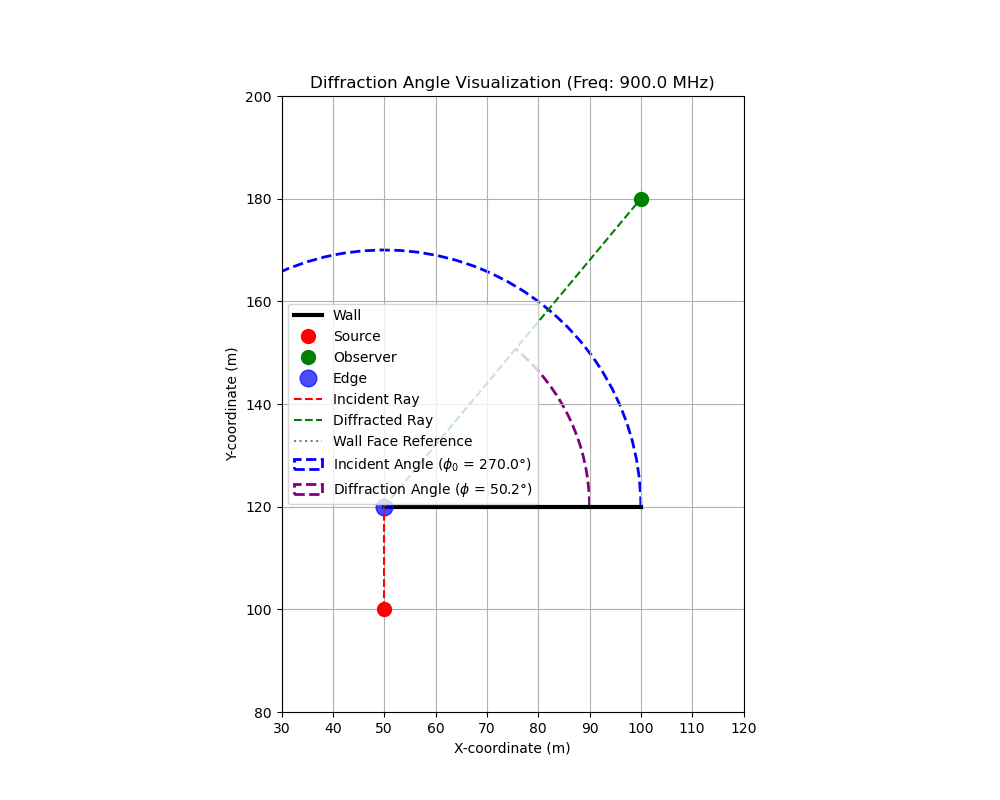
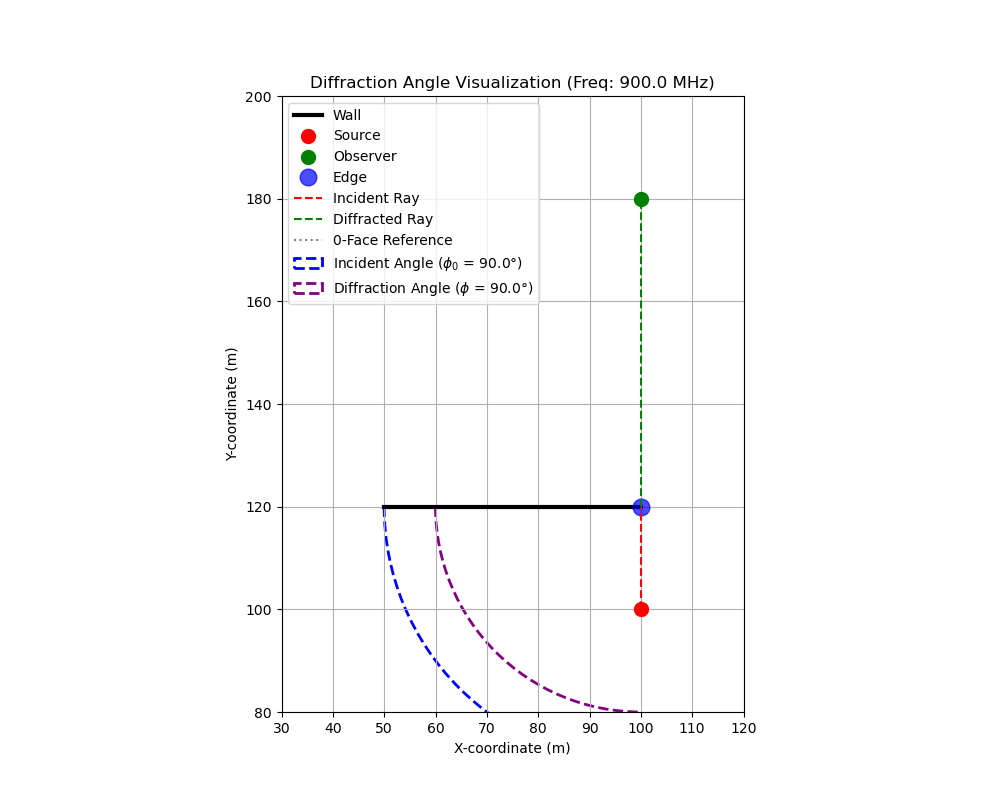
0-face detection still has some bugs, but added ready formula for diffraction coefficient in case of n=2

diff --git a/utd_physics.py b/utd_physics.py
@@ -1,74 +1,81 @@
 import numpy as np
 from scipy.constants import c as SPEED_OF_LIGHT
 
+# -------------------------------------------------------------
+# Helper utilities
+# -------------------------------------------------------------
+TWOPI = 2 * np.pi
+
+
+def _norm(a):
+    """Normalize angle to [0, 2π)."""
+    return a % TWOPI
+
+
+def _angle_between(a, b):
+    """Smallest absolute angle between two directions in [0, π]."""
+    return abs((_norm(a - b + np.pi)) - np.pi)
+
+
+# -------------------------------------------------------------
+# Main routine
+# -------------------------------------------------------------
+
 def calculate_utd_coefficient(source, edge, observer, wall_points, frequency):
+    """Return (D_GTD_complex, phi0_vis, phi_vis, face_ref_angle).
+
+    * phi0_vis  – smallest angle between 0-face and incident ray (deg)
+    * phi_vis   – clockwise angle from 0-face to diffracted ray (deg)
+    * face_ref_angle returned in radians for diagnostics
     """
-    Calculates the Uniform Theory of Diffraction (UTD) coefficient.
 
-    This function will compute the coefficient D based on the geometry of the
-    source, edge, and observer, and the frequency of the signal.
-
-    Args:
-        source (tuple): (x, y) coordinates of the transmitter.
-        edge (tuple): (x, y) coordinates of the diffracting edge.
-        observer (tuple): (x, y) coordinates of the observation point.
-        wall_points (tuple): A tuple of two (x, y) tuples defining the wall.
-        frequency (float): The frequency of the signal in Hz.
-
-    Returns:
-        complex: The complex UTD diffraction coefficient.
-    """
-    # --- Placeholder for implementation ---
-    # 1. Calculate wavenumber k
-    wavelength = SPEED_OF_LIGHT / frequency
-    k = 2 * np.pi / wavelength
-    print(f"Wavelength (λ): {wavelength:.4f} m, Wavenumber (k): {k:.4f}")
-
-    # 2. Establish local coordinate system at the edge
-    # The reference plane is the face of the wall.
-    # We need to find the other point of the wall that is not the edge.
+    # --- basic geometry vectors ---
     p1, p2 = wall_points
-    face_vector = np.array(p2) - np.array(p1) if np.allclose(edge, p1) else np.array(p1) - np.array(p2)
-    face_angle = np.arctan2(face_vector[1], face_vector[0])
-    print(f"Wall face angle: {np.degrees(face_angle):.2f}°")
+    wall_vec = np.array(p2) - np.array(p1)
+    if np.allclose(edge, p2):
+        wall_vec = -wall_vec  # ensure vector points away from edge into the wall
 
-    # 3. Calculate angles phi and phi_0 relative to the wall face
-    # Vector from edge to source (for incident ray)
-    incident_vector = np.array(source) - np.array(edge)
-    phi_0 = np.arctan2(incident_vector[1], incident_vector[0]) - face_angle
-    # Normalize to [0, 2*pi]
-    phi_0 = phi_0 % (2 * np.pi)
-    print(f"Incident angle (φ₀): {np.degrees(phi_0):.2f}°")
-    
-    # Vector from edge to observer (for diffracted ray)
-    diffracted_vector = np.array(observer) - np.array(edge)
-    phi = np.arctan2(diffracted_vector[1], diffracted_vector[0]) - face_angle
-    # Normalize to [0, 2*pi]
-    phi = phi % (2 * np.pi)
-    print(f"Diffraction angle (φ): {np.degrees(phi):.2f}°")
+    # 0-face is *always* the physical wall direction (edge → interior of wall)
+    face_ref = _norm(np.arctan2(wall_vec[1], wall_vec[0]))
 
+    # Opposite face (not used for reference but may be useful for debug)
+    # face_opposite = _norm(face_ref + np.pi)
 
-    # ... The rest of the UTD steps will go here ...
-    
-    print("UTD calculation partially implemented.")
-    # Return a default complex value for D, and the calculated angles in radians
-    return 1.0 + 0.0j, phi_0, phi
+    # Incident and diffraction directions (edge ➜ source / observer)
+    inc_dir = _norm(np.arctan2(source[1] - edge[1], source[0] - edge[0]))
+    diff_dir = _norm(np.arctan2(observer[1] - edge[1], observer[0] - edge[0]))
+
+    # ---------------------------------------------------------
+    # Compute visual / return angles
+    # ---------------------------------------------------------
+    phi0_small = _angle_between(inc_dir, face_ref)         # always ≤ π
+    phi_cw = _norm(face_ref - diff_dir)                    # clockwise
+
+    # radians to degrees for printing / visualiser
+    phi0_deg = np.degrees(phi0_small)
+    phi_deg = np.degrees(phi_cw)
+
+    # ---------------------------------------------------------
+    # GTD diffraction coefficient (half-plane)
+    # ---------------------------------------------------------
+    wavelength = SPEED_OF_LIGHT / frequency
+    k = TWOPI / wavelength
+    n = 1  # half-plane
+
+    # Formula: 1/(2√(2πk)) [ -sec((φ-φ0)/2) + sec((φ+φ0)/2) ]
+    sec_minus = 1 / np.cos((phi_cw - phi0_small) / 2)
+    sec_plus = 1 / np.cos((phi_cw + phi0_small) / 2)
+    D_gtd = (-sec_minus + sec_plus) / (2 * np.sqrt(2 * np.pi * k))
+
+    return complex(D_gtd), np.radians(phi0_deg), np.radians(phi_deg), face_ref
 
 if __name__ == '__main__':
-    # --- Example usage for testing ---
-    # We will add test cases here as we build the function.
-    print("--- Running Test Case ---")
-    
-    # Define a simple scenario: Horizontal wall
+    print("--- Running Basic Test Case ---")
     source_pos = (10, 20)
     wall = ((30, 10), (70, 10))
     diffracting_edge = wall[0]
-    observer_pos = (50, -10) # In the shadow region
-    freq = 900e6 # 900 MHz
+    observer_pos = (50, -10)
+    freq = 900e6
     
-    # The function now returns 3 values, so we capture them for testing.
-    coeff, phi_0_rad, phi_rad = calculate_utd_coefficient(source_pos, diffracting_edge, observer_pos, wall, freq)
-    print(f"Returned values: D={coeff}, φ₀={np.degrees(phi_0_rad):.2f}°, φ={np.degrees(phi_rad):.2f}°")
-    
-    print("\n--- Test Case Complete ---")
-    print("utd_physics.py - Ready for next steps.") 
+    calculate_utd_coefficient(source_pos, diffracting_edge, observer_pos, wall, freq)
+    print("\n--- Test Case Complete ---") 

diff --git a/angle_visualizer.py b/angle_visualizer.py
@@ -17,12 +17,16 @@ def visualize_angles(source, wall, edge_index, observer, freq):
     edge = wall[edge_index]
     
     # --- Physics Calculation ---
-    # We capture all three return values, but only use the angles for now.
-    _, phi_0_rad, phi_rad = utd_physics.calculate_utd_coefficient(
+    # We capture all four return values.
+    _, vis_phi_0_rad, phi_rad, face_angle_ref_rad = utd_physics.calculate_utd_coefficient(
         source, edge, observer, wall, freq
     )
-    phi_0_deg = np.degrees(phi_0_rad)
+    # For visualization, we use the angles as they are now returned:
+    # - vis_phi_0_rad is the smallest angle for the incident ray
+    # - phi_rad is the CCW angle from the 0-face for the diffracted ray
+    vis_phi_0_deg = np.degrees(vis_phi_0_rad)
     phi_deg = np.degrees(phi_rad)
+    face_angle_deg = np.degrees(face_angle_ref_rad)
     
     # --- Plotting ---
     fig, ax = plt.subplots(figsize=(10, 8))
@@ -43,20 +47,21 @@ def visualize_angles(source, wall, edge_index, observer, freq):
     ax.plot([edge[0], observer[0]], [edge[1], observer[1]], 'g--', label='Diffracted Ray')
     
     # --- Angle Visualization ---
-    p1_wall, p2_wall = wall
-    face_vector = np.array(p2_wall) - np.array(p1_wall) if edge_index == 0 else np.array(p1_wall) - np.array(p2_wall)
-    face_angle_deg = np.degrees(np.arctan2(face_vector[1], face_vector[0]))
+    # We no longer calculate this here; we use the one from the physics module.
+    # p1_wall, p2_wall = wall
+    # face_vector = np.array(p2_wall) - np.array(p1_wall) if edge_index == 0 else np.array(p1_wall) - np.array(p2_wall)
+    # face_angle_deg = np.degrees(np.arctan2(face_vector[1], face_vector[0]))
 
-    # Reference line for angles (the wall face)
+    # Reference line for angles (the 0-face)
     ref_line_end = (edge[0] + 50 * np.cos(np.radians(face_angle_deg)), edge[1] + 50 * np.sin(np.radians(face_angle_deg)))
-    ax.plot([edge[0], ref_line_end[0]], [edge[1], ref_line_end[1]], 'k:', alpha=0.5, label='Wall Face Reference')
+    ax.plot([edge[0], ref_line_end[0]], [edge[1], ref_line_end[1]], 'k:', alpha=0.5, label='0-Face Reference')
     
-    # Draw incident angle arc
-    arc_inc = Arc(edge, 100, 100, angle=face_angle_deg, theta1=0, theta2=phi_0_deg,
-                  color='blue', linewidth=2, linestyle='--', label=f'Incident Angle ($\\phi_0$ = {phi_0_deg:.1f}°)')
+    # Draw incident angle arc - using the smallest angle
+    arc_inc = Arc(edge, 100, 100, angle=face_angle_deg, theta1=0, theta2=vis_phi_0_deg,
+                  color='blue', linewidth=2, linestyle='--', label=f'Incident Angle ($\\phi_0$ = {vis_phi_0_deg:.1f}°)')
     ax.add_patch(arc_inc)
     
-    # Draw diffraction angle arc
+    # Draw diffraction angle arc - using the formula angle
     arc_diff = Arc(edge, 80, 80, angle=face_angle_deg, theta1=0, theta2=phi_deg,
                    color='purple', linewidth=2, linestyle='--', label=f'Diffraction Angle ($\\phi$ = {phi_deg:.1f}°)')
     ax.add_patch(arc_diff)
@@ -75,12 +80,13 @@ def visualize_angles(source, wall, edge_index, observer, freq):
 
 if __name__ == '__main__':
     # --- Define a Test Scenario ---
-    source_pos = (50, 100)
-    wall_geom = ((100, 120), (50, 120))  # A vertical wall
-    diffracting_edge_idx = 1  # Use the bottom point of the wall as the edge
+    # TEST CASE 3
+    source_pos = (100, 100)
+    wall_geom = ((100, 120), (50, 120))
+    diffracting_edge_idx = 0
     observer_pos = (100, 180)
     frequency = 900e6  # 900 MHz
     
-    print("--- Generating Static Angle Visualization ---")
+    print("--- Running Test Case 3: Complex Geometry ---")
     visualize_angles(source_pos, wall_geom, diffracting_edge_idx, observer_pos, frequency)
     print("--- Plot saved to diffraction_plot.png ---") 
